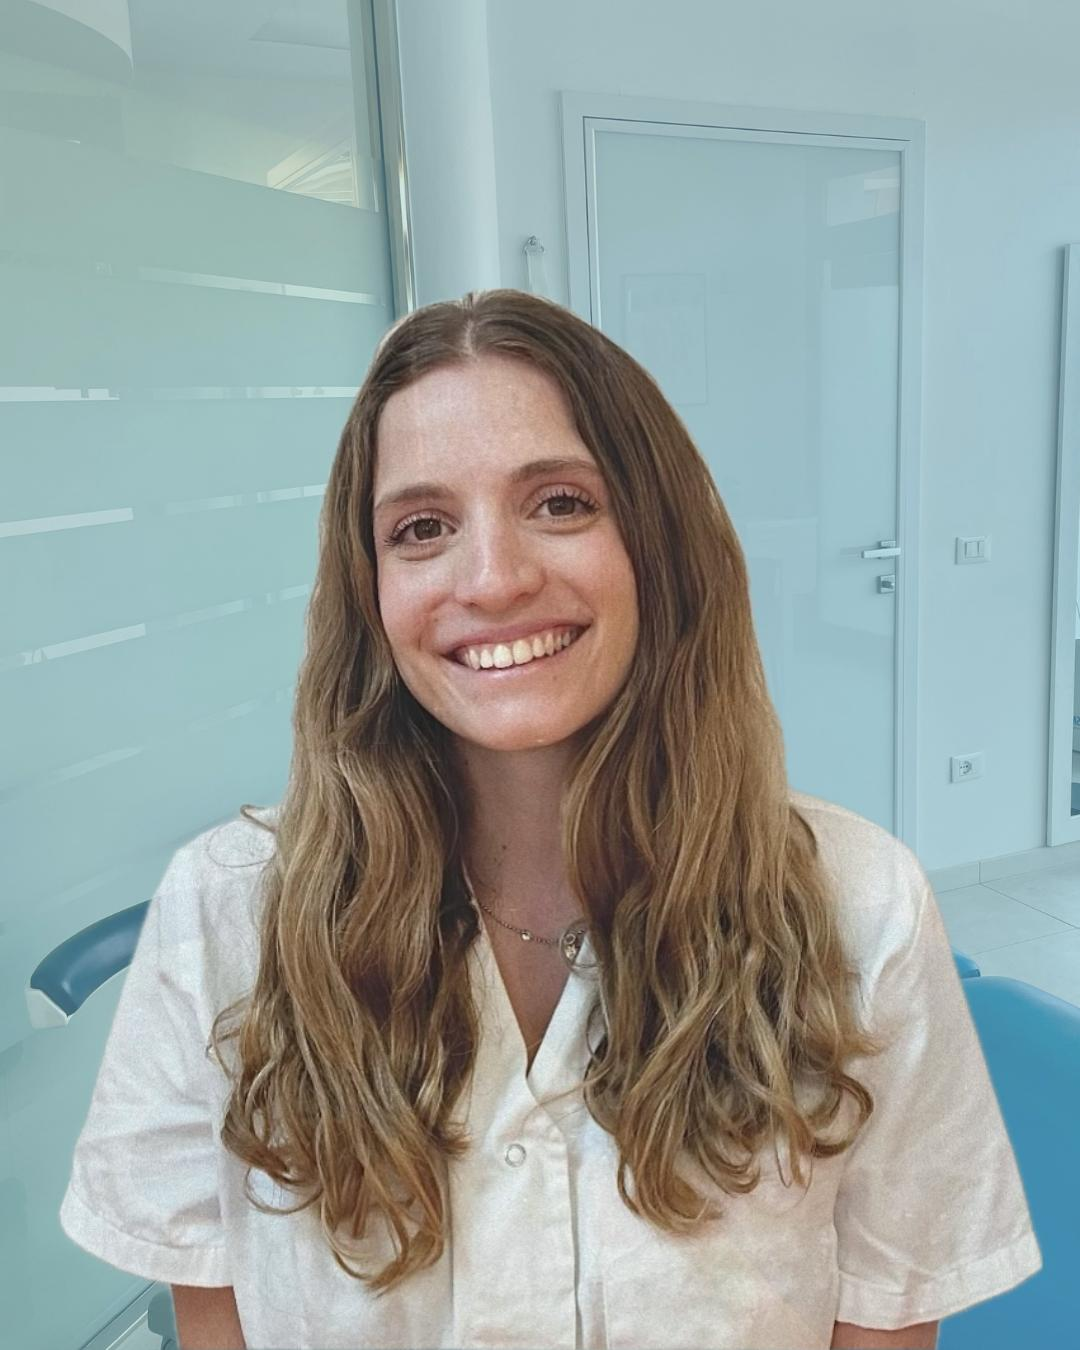
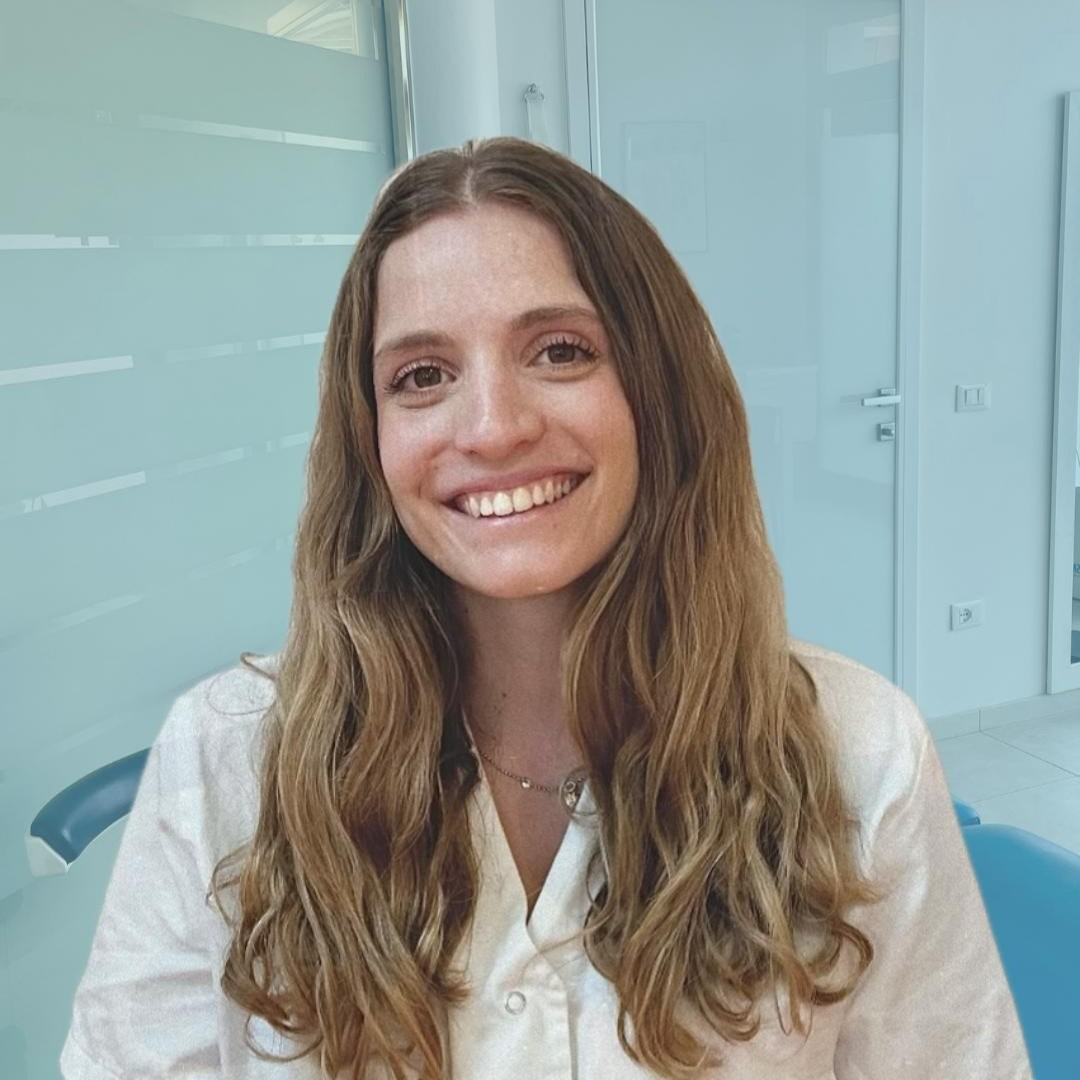
version3

diff --git a/style.css b/style.css
@@ -1,13 +1,13 @@
 
 
 html {
-  background-color: #90C8CB;
   scroll-padding-top: 70px; /* altezza della tua navbar */
 }
 
 body {
   margin: 0;
   padding: 0;
+  background-color: #90C8CB;
 }
 
 img, picture, video, canvas, svg {
@@ -18,12 +18,12 @@ img, picture, video, canvas, svg {
 input, button, textarea, select {
   font: inherit;
 }
-
-
     .content {
+      min-height: 100vh;
       padding: 60px 20px 20px 20px;
       background-color: #90C8CB;
     }
+
     .hbox {
       max-width: 230px;
     }
@@ -41,9 +41,8 @@ input, button, textarea, select {
     }
 
     .img-profilo {
-    width: 400px;
-    height: auto;
-    border-radius: 50%;
+    margin-left: 0px;
+    margin-right: 0px;
     align-self: center; /* centra l'immagine su mobile */
     }
 
@@ -75,14 +74,18 @@ input, button, textarea, select {
 
 
   @media (min-width: 768px) {
-
+        .content {
+          min-width: none;
+        }
         .profilo {
             flex-direction: row; /* affianca immagine e testo su desktop */
             align-items: center;
         }
         .img-profilo {
+            border-radius: 50%;
             margin-right: 40px;
             align-self: flex-start; /* riallinea immagine a sinistra */
+            max-height: 400px; /* limita l'altezza dell'immagine */
         }
         .img-logo {
             width: 600px;
@@ -98,7 +101,6 @@ input, button, textarea, select {
         }
         .titolo{
           font-size: 2rem;
-          white-space: nowrap; /* forza il titolo su una sola riga */
          }
 }
 

diff --git a/index.html b/index.html
@@ -67,12 +67,12 @@
   </div>
 </nav>
 
-<div class="content">
-  <section id="home" class="py-5">
+<div class="content d-flex flex-column justify-content-center align-items-center">
+
+  <section id="home" class="h-100 w-100 container d-flex align-items-center justify-content-center py-5">
     <!-- logo-->
-    <div class="text-center">
       <img src="img/fisioelle3.png" alt="Elena Bartolini" class="img-logo img-fluid d-block mx-auto">
-    </div>
+  
   </section>
 </div>
 
@@ -95,7 +95,7 @@
         </div>
 
         <!-- Colonna immagine -->
-        <div class="col-12 col-lg-6 text-center">
+        <div class="col-12 col-lg-6 text-center ">
           <img src="img/elena_bartolini.jpg" alt="Elena Bartolini" class="img-profilo img-fluid d-block mx-auto">
         </div>
       </div>
